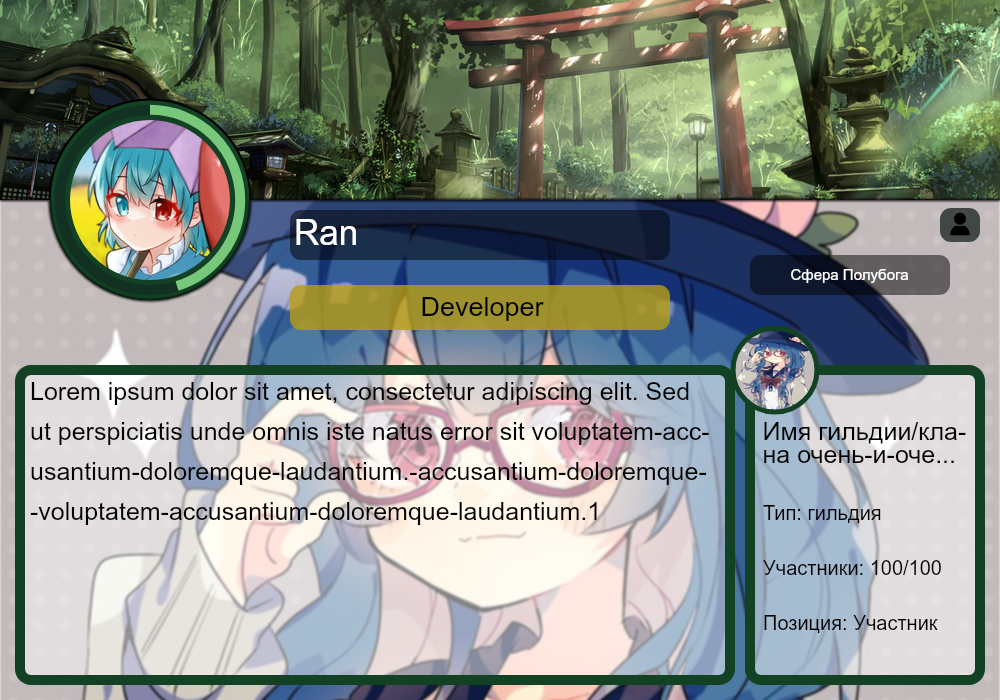
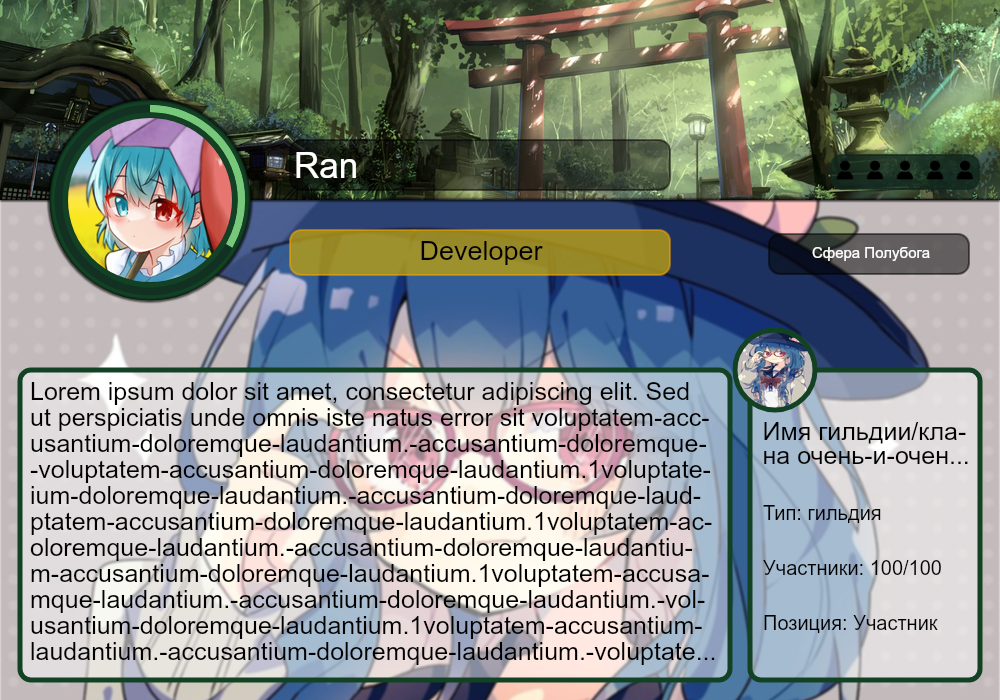
Изменения (ну около финальная версия. main функцию я уберу позже) Поправила свою опечатку в globalAlpha Реализовала новые методы: drawGuildIcon, drawBadge, #badgeDraw Поправила установку блюра в методе #drawBlock Были созданы новые интерфейсы и типы:  DrawBadgeOptinalOptions, DrawBadgeOptions, DrawG

Changed region(s): [[0.0, 0.15, 0.992, 1.0], [0.837, 0.21, 0.992, 0.27]]

diff --git a/abyss/src/img.ts b/abyss/src/img.ts
@@ -158,7 +158,7 @@ class Profile {
     if (lineBorder?.off !== true) {
       setStyle(lineBorder?.color, `stroke`, `black`);
       ctx.lineWidth = lineBorder?.lineWidth ?? 2;
-      ctx.globalAlpha = lineBorder?.globalAplha ?? 1;
+      ctx.globalAlpha = lineBorder?.globalAlpha ?? 1;
 
       if (lineBorderBlur?.both !== undefined || lineBorderBlur?.top !== undefined) ctx.filter = `blur(${(lineBorderBlur.both ?? lineBorderBlur.top) ?? 0.8}px)`;
       
@@ -178,6 +178,112 @@ class Profile {
     }
 
     return this;
+  }
+
+  drawGuildIcon(options: DrawGuildIconOptions): Profile {
+    const ctx = this.ctx;
+    const { x1, x2, y1, y2, r, borderLineWidth = 5, borderColor = `#124124`, icon, globalAlpha, offBorder = false, w, h } = options;
+    const isImage = icon instanceof Image;
+
+    ctx.save();
+    ctx.beginPath();
+    ctx.arc(x1, y1, r, 0, Math.PI * 2);
+    ctx.clip();
+
+    ctx.globalAlpha = globalAlpha ? typeof globalAlpha === `number` ? globalAlpha : `icon` in globalAlpha ? globalAlpha.icon ?? 1 : 1 : 1;
+
+    if (isImage) {
+      ctx.drawImage(icon, x2, y2, w, h);
+    } else {
+      if (typeof icon === `string`) ctx.fillStyle = icon;
+      else this.#setGradient(icon);
+    
+      ctx.fill();
+    }    
+    ctx.closePath();
+    ctx.restore();
+    ctx.beginPath();
+    ctx.lineWidth = borderLineWidth;
+    
+    if (typeof globalAlpha !== `number` && globalAlpha !== undefined && `border` in globalAlpha) ctx.globalAlpha = globalAlpha.border ?? 1;
+
+    if (typeof borderColor === `string`) ctx.strokeStyle = borderColor;
+    else if (borderColor !== undefined) this.#setGradient(borderColor);
+
+    if (offBorder !== true) {
+      ctx.arc(x1, y1, r, 0, Math.PI * 2);
+      ctx.stroke();
+    }
+
+    ctx.closePath();
+    
+    return this;
+  }
+
+  drawBadge(args: DrawBadgeOptions, options: DrawBadgeOptinalOptions): Profile;
+  drawBadge(args: DrawBadgeOptions[], options: DrawBadgeOptinalOptions): Profile;
+  drawBadge(args: DrawBadgeOptions | DrawBadgeOptions[], options: DrawBadgeOptinalOptions): Profile {
+    if (Array.isArray(args) && args.length > 0) {
+      //let lastX = x;
+      if (args.length === 1) {
+        this.#badgeDraw(args[0], options);
+        return this;
+      }
+
+      const sortBadges = args.sort((a, b) => (a?.priority ?? 1) - (b?.priority ?? 0));
+      const badges: typeof sortBadges = [];
+
+      let x = 0;
+      let y = 0;
+      for (let i = 0; i < args.length; i++) {
+        delete sortBadges[i].priority;
+        const bg = sortBadges[i];
+        const prewBG = sortBadges[i - 1];
+        console.log(sortBadges[i], sortBadges[i - 1]);
+        if (i === 0) {
+          x = bg.x ?? 0;
+          y = bg.y ?? 0;
+
+          badges.push({ x, y, ...bg});
+
+          continue;
+        }
+
+        x += (prewBG.x ?? 0) - (bg.space ?? 10) - (bg.w ?? 20) - (bg.x ?? 0);
+        y = (prewBG.y ?? 0) + (bg.y ?? 0);
+        console.log(prewBG.x, prewBG.y);
+        const result = { x, y };
+        badges.push({ ...bg, ...result });
+      }
+
+      badges.forEach((val, i) => this.#badgeDraw(val, options, i, badges.length, badges));
+    } else if (!Array.isArray(args)) this.#badgeDraw(args, options);
+    
+
+    return this;
+  }
+
+  #badgeDraw(args: DrawBadgeOptions, options: DrawBadgeOptinalOptions, ind: number = 0, length: number = 0, arr?: DrawBadgeOptions[]) {
+    const ctx = this.ctx;
+    const { x, y, bgR = 11, bgH = 34, bgW = 28, bgColor = `#10271d`, offStroke = false, bgLineWidth = 2, globalAlpha = { fill: 0.8, stroke: 0.7 }, blur, bgFill = `full` } = options; 
+    const { w = 20, h = 20, badge, space = 9 } = args;
+    const BGw = ind === 0 && bgFill === `full` && length > 0 ? arr !== undefined && arr.length > 0 ? Math.abs(arr[length - 1].x ?? bgW) + bgW : bgW : bgW;
+    const BGx = bgFill === `unique` && arr !== undefined ? (arr[ind].x ?? x) - BGw + space : x; 
+    
+    if (ind === 0 && bgFill === `full` || bgFill === `unique`) this.drawBlocks({ x: BGx, y, w: BGw, h: bgH, r: bgR, color: bgColor, strokeLineWidth: bgLineWidth, drawType: offStroke ? "fill" : "both", globalAlpha, blurOptions: blur, x_position: `right` });
+
+    ctx.save();
+    ctx.beginPath();
+
+    ctx.translate(955, 160);
+    
+    if (args.blur !== undefined) ctx.filter = `blur(${args.blur}px)`;
+    if (args.globalAlpha !== undefined) ctx.globalAlpha = args.globalAlpha; 
+    
+    ctx.drawImage(badge, args.x ?? 0, args.y ?? 0, w, h);
+    ctx.closePath();
+    ctx.restore();
+    
   }
 
   drawBlocks(options: DrawBlocksOptions): Profile;
@@ -227,7 +333,7 @@ class Profile {
       bioFull: defaultBioOptions,
       bioCenter: { x_position: `center`, ...defaultBioOptions},
       badge: { x_position: `right`, color: { fill: `#091711`, stroke: `black` }, globalAlpha: { fill: 0.7, stroke: 0.5 }, drawType: "both", strokeLineWidth: 2 },
-      guild: { drawType: `both`, globalAlpha: { fill: 0.5 }, color: { fill: `white`, stroke: `#124124` } }
+      guild: { drawType: `both`, globalAlpha: { fill: 0.5 }, color: { fill: `white`, stroke: `#124124` }, strokeLineWidth: 5 },
     };
     const templateNames: string[] = [];
     const templates: TemplateBlocksOptions[] = Object.entries(options)
@@ -430,7 +536,7 @@ class Profile {
   drawTemplateText(args: TemplateTextOptions): Profile {
     const text = ``;
     const iconShift = 40;
-    const defaultBio = { dynamicOptions: { dynamic: true,  dynamicCorrector: 1, isClip: true,  lineSpacing: 12, lines: 10 }, fontOptions: { size: 25 } };
+    const defaultBio = { dynamicOptions: { dynamic: true,  dynamicCorrector: 1, isClip: true,  lineSpacing: 12, lines: 10 }, fontOptions: { size: 25, color: `black` } };
     const templateText: TemplateTextOptions = {
       username: { x1: 294, x2: 670, y: 178, dynamicOptions: { dynamic: true }, fontOptions: { color: `white`, size: 35 }, text },
       level: { x1: 772, x2: 970, y: 258, textDirect: `center`, dynamicOptions: { dynamic: true, dynamicCorrector: -2, lines: 0 }, fontOptions: { size: 15, color: `white` }, text },
@@ -439,7 +545,7 @@ class Profile {
       bioFull: { x1: 30, x2: 970, y: 400, text, ...defaultBio },
       bioCenter: { x1: 210, x2: 787, y: 400, text, ...defaultBio },
       guild: {
-        guildName: { x1: 762.5, x2: 970, y: 400, dynamicOptions: { dynamic: true, isClip: true, lines: 1, lineSpacing: 9 }, fontOptions: { size: 25 }, text, iconShift },
+        guildName: { x1: 762.5, x2: 970, y: 400, dynamicOptions: { dynamic: true, isClip: true, lines: 1, lineSpacing: 2 }, fontOptions: { size: 25 }, text, iconShift },
         guildType: { x1: 763, x2: 965, y: 480, dynamicOptions: { dynamic: true }, fontOptions: { size: 20 }, text, iconShift }, 
         members: { x1: 763, x2: 965, y: 535, dynamicOptions: { dynamic: true }, fontOptions: { size: 20 }, text, iconShift },
         perms: { x1: 763, x2: 965, y: 590, dynamicOptions: { dynamic: true }, fontOptions: { size: 20 }, text, iconShift },
@@ -625,12 +731,12 @@ class Profile {
 
     if (typeof globalAlpha === `number`) ctx.globalAlpha = globalAlpha;
 
-    ctx.filter = `blur(${blurOptions !== undefined && `fill` in blurOptions ? blurOptions.fill : 0}px)`;
+    ctx.filter = `blur(${typeof blurOptions === `object` && `fill` in blurOptions ? blurOptions.fill : typeof blurOptions === `number` ? blurOptions : 0}px)`;
     
     if (typeof globalAlpha === `object` && globalAlpha?.fill !== undefined) ctx.globalAlpha = globalAlpha.fill;
     if (drawType === `fill` || drawType === `both`) ctx.fill();
       
-    ctx.filter = `blur(${blurOptions !== undefined && `stroke` in blurOptions ? blurOptions.stroke : 0}px)`;
+    ctx.filter = `blur(${typeof blurOptions === `object` && `stroke` in blurOptions ? blurOptions.stroke : typeof blurOptions === `number` ? blurOptions : 0}px)`;
     ctx.globalAlpha = typeof globalAlpha === `object` && globalAlpha?.stroke !== undefined ? globalAlpha.stroke : typeof globalAlpha === `number` ? globalAlpha : 1;
     
     if (drawType === `stroke` || drawType === `both`) ctx.stroke(); 
@@ -1324,13 +1430,12 @@ const someTest: () => Promise<void> = async () => {
     .drawBlocks([{ 
       x: 290, y: 140, w: 380, h: 50, r: 11, globalAlpha: 0.5, color: "black", drawType: `both`, strokeLineWidth: 2 }, 
     { x: 290, y: 230, w: 380, h: 45, r: 11, color: { fill: `#b89e14`, stroke: `orange`}, globalAlpha: { fill: 0.8, stroke: 0.5 }, drawType: `both`, strokeLineWidth: 2 },  
-    { x: 0, y: 370, w: 600, h: 310, r: 11, x_position: `center`, color: { fill: `white`, stroke: `#124124` }, globalAlpha: { fill: 0.5 }, drawType: `both`, strokeLineWidth: 5 },  //x: 20, y: 370, w: 710, h: 310
+    /*{ x: 0, y: 370, w: 600, h: 310, r: 11, x_position: `center`, color: { fill: `white`, stroke: `#124124` }, globalAlpha: { fill: 0.5 }, drawType: `both`, strokeLineWidth: 5 },*/  //x: 20, y: 370, w: 710, h: 310
     /*{ x: 750, y: 370, w: 230, h: 310, r: 11, drawType: `both`, globalAlpha: { fill: 0.5 }, color: { fill: `white`, stroke: `#124124` } }, */ //710, full = w: 960
     { x: -30, y: 234, w: 200, h: 40, r: 11, globalAlpha: 0.5, color: "black", x_position: `right`, drawType: "both", strokeLineWidth: 2 }, 
-    { x: -20, y: 155, w: 40, h: 34, r: 11, x_position: `right`, color: { fill: `#091711`, stroke: `black` }, globalAlpha: { fill: 0.7, stroke: 0.5 }, drawType: "both", strokeLineWidth: 2 }])
+    /*{ x: -20, y: 155, w: 40, h: 34, r: 11, x_position: `right`, color: { fill: `#091711`, stroke: `black` }, globalAlpha: { fill: 0.7, stroke: 0.5 }, drawType: "both", strokeLineWidth: 2 }*/])
     .drawTexts([
       //Bio текст. x1: 30, x2: 710, full = x2: 970,
-      { text: `Lorem ipsum dolor sit amet, consectetur adipiscing elit. Sed ut perspiciatis unde omnis iste natus error sit voluptatem-accusantium-doloremque-laudantium.-accusantium-doloremque-laudantium.-voluptatem-accusantium-doloremque-laudantium.1voluptatem-accusantium-doloremque-laudantium.-accusantium-doloremque-laudantium.-voluptatem-accusantium-doloremque-laudantium.1voluptatem-accusantium-doloremque-laudantium.-accusantium-doloremque-laudantium.-voluptatem-accusantium-doloremque-laudantium.1voluptatem-accusantium-doloremque-laudantium.-accusantium-doloremque-laudantium.-voluptatem-accusantium-doloremque-laudantium.1voluptatem-accusantium-doloremque-laudantium.-accusantium-doloremque-laudantium.-voluptatem-accusantium-doloremque-laudantium.1`, x1: 210, x2: 787, y: 400, dynamicOptions: { dynamic: true,  dynamicCorrector: 1, isClip: true,  lineSpacing: 17, lines: 10 }, fontOptions: { size: 25 } }, 
       //Никнейм
       { text: `Ran`, x1: 294, x2: 670, y: 178, dynamicOptions: { dynamic: true }, fontOptions: { color: `white`, size: 35 } },
       //титул
@@ -1346,13 +1451,75 @@ const someTest: () => Promise<void> = async () => {
       //уровень
       { text: `Сфера Полубога`, x1: 772, x2: 970, y: 258, textDirect: `center`, dynamicOptions: { dynamic: true, dynamicCorrector: -2, lines: 0 }, fontOptions: { size: 15, color: `white` } },
     ])
-    .drawTemplateText({ bioCenter: { text: `Lorem ipsum dolor sit amet, consectetur adipiscing elit. Sed ut perspiciatis unde omnis iste natus error sit voluptatem-accusantium-doloremque-laudantium.-accusantium-doloremque-laudantium.-voluptatem-accusantium-doloremque-laudantium.1voluptatem-accusantium-doloremque-laudantium.-accusantium-doloremque-laudantium.-voluptatem-accusantium-doloremque-laudantium.1voluptatem-accusantium-doloremque-laudantium.-accusantium-doloremque-laudantium.-voluptatem-accusantium-doloremque-laudantium.1voluptatem-accusantium-doloremque-laudantium.-accusantium-doloremque-laudantium.-voluptatem-accusantium-doloremque-laudantium.1voluptatem-accusantium-doloremque-laudantium.-accusantium-doloremque-laudantium.-voluptatem-accusantium-doloremque-laudantium.1` } })
+    .drawTemplateBlock({
+      bio: {},
+      guild: {}
+    })
+    .drawGuildIcon({ x1: 775, y1: 370, r: 40, x2: 735, y2: 330, w: 80, h: 80, icon: guildIcon })
+    /**
+     *  ctx.arc(775, 370, 40, 0, Math.PI * 2);
+        ctx.fillStyle = `grey`;
+        //ctx.fill();
+        ctx.clip();
+        ctx.drawImage(guildIcon, 735, 330, 80, 80);
+     */
+    .drawTemplateText({ 
+      bio: { 
+        text: `Lorem ipsum dolor sit amet, consectetur adipiscing elit. Sed ut perspiciatis unde omnis iste natus error sit voluptatem-accusantium-doloremque-laudantium.-accusantium-doloremque-laudantium.-voluptatem-accusantium-doloremque-laudantium.1voluptatem-accusantium-doloremque-laudantium.-accusantium-doloremque-laudantium.-voluptatem-accusantium-doloremque-laudantium.1voluptatem-accusantium-doloremque-laudantium.-accusantium-doloremque-laudantium.-voluptatem-accusantium-doloremque-laudantium.1voluptatem-accusantium-doloremque-laudantium.-accusantium-doloremque-laudantium.-voluptatem-accusantium-doloremque-laudantium.1voluptatem-accusantium-doloremque-laudantium.-accusantium-doloremque-laudantium.-voluptatem-accusantium-doloremque-laudantium.1` 
+      },
+      guild: {
+        guildName: { text: `Имя гильдии/клана очень-и-очень большое` },
+        guildType: { text: `Тип: гильдия` },
+        members: { text: `Участники: 100/100` },
+        perms: { text: `Позиция: Участник` },
+        guildIcon: true
+      }
+    })
+    .drawBadge( [{ badge: icon }, { badge: icon }, { badge: icon }, { badge: icon }, { badge: icon }], { x: -20, y: 155 })
 
   //full = x: 780, w: 200, one = w: 40, x: 940 - координаты под "значки"
   sharp(test.render()).toFile(`./abyss/res.png`);
 };
 
 someTest();
+
+interface DrawBadgeOptinalOptions extends X_And_Y  {
+  bgColor?: StringOrGradient | FillOrStrokeOption<string>;
+  bgW?: number; //ширина блока для значков
+  bgH?: number; //высота блока для значков
+  bgR?: number; //скругление углов
+  bgLineWidth?: number;
+  offStroke?: boolean;
+  globalAlpha?: number | FillOrStrokeOption;
+  blur?: number | FillOrStrokeOption;
+  bgFill?: "full" | "unique" | "none"; //влияет только при наличии массива
+}
+
+interface DrawBadgeOptions extends Partial<X_And_Y> {
+  space?: number; //отступ между значками
+  badge: Image; //то, что будет загружаться
+  w?: number; //ширина значка. w + space = отступ между значками
+  h?: number; //высота значка. Если не указано, то h = w
+  globalAlpha?: number; //прозрачность. Не знаю - надо или нет. Но пусть будет
+  blur?: number; //размытие. Так-же не знаю. Потом увижу
+  priority?: number; //как размещать их. 0 - выший приоритет. Если нет - будет по их расположению в массиве. Если это не массив - оно не будет иметь влияния. Просто не стакайте их на одном месте хд
+}
+
+interface DrawGuildIconOptions {
+  x1: number;
+  x2: number;
+  y1: number;
+  y2: number;
+  w: number;
+  h: number;
+  r: number;
+  borderLineWidth?: number;
+  borderColor?: StringOrGradient;
+  icon: Image | StringOrGradient;
+  globalAlpha?: number | BorderOrIcon;
+  blurOptions?: number | BorderOrIcon;
+  offBorder?: boolean;
+}
 
 interface TemplateTextOptions {
   username?: TemplateText; 
@@ -1400,11 +1567,11 @@ interface PriorityOption {
 }
 
 interface BaseDrawBlocksOptions {
-  color?: string | ColorDrawType | GradientOptions; 
-  globalAlpha?: number | ColorDrawType<number>;
+  color?: string | FillOrStrokeOption<string> | GradientOptions; 
+  globalAlpha?: number | FillOrStrokeOption;
   drawType?: TypeDrawImageOrColor | "both";
   strokeLineWidth?: number; 
-  blurOptions?: ColorDrawType<number>;
+  blurOptions?: number | FillOrStrokeOption;
   name?: string;
 }
 
@@ -1439,7 +1606,7 @@ interface LineBorderOptions extends BorderOptions, Partial<X_And_Y> {
     top?: number, 
     bottom?: number; 
   };
-  globalAplha?: number;
+  globalAlpha?: number;
   radius?: number;
 }
 
@@ -1488,7 +1655,7 @@ interface TextFormatterOptions {
 
 interface DrawBGDrawTypeColor {
   draw: "color";
-  color?: ColorOptions;
+  color?: FillOrStrokeOption<string>;
   gradient?: GradientOptions;
   typeDraw?: DrawBGType;
   drawPriority?: TypeDrawImageOrColor;
@@ -1566,11 +1733,6 @@ interface X_And_Y {
   y: number;
 }
 
-interface ColorOptions {
-  fill?: string;
-  stroke?: string;
-}
-
 interface BlurOptions {
   banner?: number;
   bottom?: number;
@@ -1622,20 +1784,6 @@ interface DrawDynamicOptions {
   lineSpacing?: number;
 }
 
-interface DrawImageOptions {
-  image?: Image;
-  x1?: number;
-  y1?: number;
-  x2?: number;
-  y2?: number;
-  radiusX?: number;
-  radiusY?: number;
-  radiusA?: number;
-  isScale?: boolean;
-  type?: "bg" | "xpBar" | "avatar";
-  otherOptions?: ExpBarOptions;
-}
-
 interface GradientOptions {
   type?: "linear" | "radial";
   colorType?: TypeDrawImageOrColor | "both";
@@ -1665,19 +1813,8 @@ interface RadialGradientOptions {
   r1: number;
 }
 
-interface ExpBarOptions {
-  xp: number;
-  xpMax: number;
-  lineWidth?: number;
-  color?: CanvasColorOptions;
-}
-
 interface DrawTextsBase {
   dynamicOptions?: DynamicOptionDrawsText[];
-}
-
-interface DrawImagesBase {
-  dynamicOptions?: DynamicOptionsDrawImages[];
 }
 
 interface StaticOptions {
@@ -1694,10 +1831,6 @@ interface DynamicOptions {
 
 interface UpdateDynamicDrawText {
   update: Partial<DrawTextOptions>;
-}
-  
-interface UpdateDynamicDrawImages {
-  update: Partial<DrawImageOptions>;
 }
 
 interface TemplateType {
@@ -1728,6 +1861,12 @@ interface TemplatePositionType {
   height: number; 
 }
 
+type FillOrStrokeOption<T = number, K = T> = { fill?: T; stroke?: K };
+
+type BorderOrIcon<T = number, K = T> = { border?: T; icon?: K; };
+
+type StringOrGradient = string | GradientOptions;
+
 type TemplateText = TextBase & Partial<DrawTextOptions> & PriorityOption;
 
 type TemplateBlock = BaseDrawBlocksOptions & PriorityOption;
@@ -1735,10 +1874,6 @@ type TemplateBlock = BaseDrawBlocksOptions & PriorityOption;
 type CanvasColorOptions = string | CanvasGradient | CanvasPattern;
 
 type DynamicOptionDrawsText = DynamicOptions & UpdateDynamicDrawText;
-
-type DynamicOptionsDrawImages = DynamicOptions & UpdateDynamicDrawImages;
-
-type DrawImagesOptions = DrawImagesBase & StaticOptions;
 
 type DrawTextsOption = DrawTextsBase & StaticOptions;
 
@@ -1753,8 +1888,6 @@ type DrawBGType = "rect" | "arc";
 type TypeDrawImageOrColor = "fill" | "stroke";
 
 type StringNumber = string | number;
-
-type ColorDrawType<T extends StringNumber = string, K extends StringNumber = T> = { fill?: T; stroke?: K;}
 
 type RenderType = "image/png" | "image/jpeg";
 
